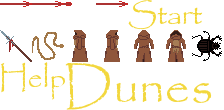
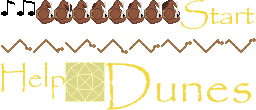
Updated player sprite/movement

diff --git a/game.js b/game.js
@@ -138,6 +138,7 @@ function initializeSprites()
   // Add player to map's entity layer
   var entity_layer = world.getObject("Entities");
   entity_layer.addChild(player.sprite);
+  entity_layer.addChild(player.playerBody);
 
   //Add in the collidable objects to our collision array
   collidableArray = world.getObject("WallsLayer").data;
@@ -200,10 +201,28 @@ function player()
   // Get a reference to the player object in the entities layer of the map
   var stgPlayer = world.getObject("Player");
 
-  // Create the player's sprite
-  this.sprite = new PIXI.Sprite( sheet.textures["Player1.png"] );
+  // Create the player's 'hitbox' sprite
+  // This sprite will be invisible and will be used to check collision for the
+  // player with walls, enemies, etc.
+  this.sprite = new PIXI.Sprite( sheet.textures["PlayerBody1.png"] );
+  this.sprite.visible = false;
+
+  // Create the player's visible body
+  var frames = [];
+  for( let index = 1; index < 9; index++ )
+  {
+    frames.push( sheet.textures["PlayerBody" + index + ".png"] );
+  }
+  this.playerBody = new PIXI.AnimatedSprite( frames );
+  this.playerBody.anchor.set(0.5);
+  this.playerBody.animationSpeed = 0.2;
+
+  // Place the player on the map
   this.sprite.x = stgPlayer.x;
   this.sprite.y = stgPlayer.y;
+
+  this.playerBody.x = this.sprite.x + this.sprite.width / 2;
+  this.playerBody.y = this.sprite.y + this.sprite.height / 2;
 
   // Instance variables
   this.vx = 0;
@@ -296,13 +315,11 @@ function movePlayer()
     // W key
     if (wDown) {
       player.vy = -1;
-      player.sprite.texture = sheet.textures["Player3.png"]
     }
 
     // S key
     else if (sDown) {
     	player.vy = 1;
-      player.sprite.texture = sheet.textures["Player1.png"]
     }
 
     else {
@@ -313,17 +330,21 @@ function movePlayer()
     // A key
     if (aDown) {
       player.vx = -1;
-      player.sprite.texture = sheet.textures["Player4.png"]
     }
 
     // D key
     else if (dDown) {
       player.vx = 1;
-      player.sprite.texture = sheet.textures["Player2.png"]
     }
 
     else {
       player.vx = 0;
+    }
+
+    // If the player is moving, rotate their body to reflect the direction they are moving
+    if( player.vx != 0 || player.vy != 0) {
+    player.playerBody.rotation = Math.atan2( ( player.sprite.y + player.vy * PLAYERSPEED ) - player.sprite.y,
+                                       ( player.sprite.x + player.vx * PLAYERSPEED ) - player.sprite.x );
     }
 
     // Actually move the player
@@ -339,6 +360,17 @@ function movePlayer()
       player.sprite.y -= player.vy * PLAYERSPEED;
       player.vx = 0;
       player.vy = 0;
+    }
+
+    player.playerBody.x = player.sprite.x + player.sprite.width / 2;
+    player.playerBody.y = player.sprite.y + player.sprite.height / 2;
+
+    // Check if the player is moving, and if so, animate their sprite
+    if( player.vx == 0 && player.vy == 0) {
+      player.playerBody.stop();
+    }
+    else {
+      player.playerBody.play();
     }
 
 }
